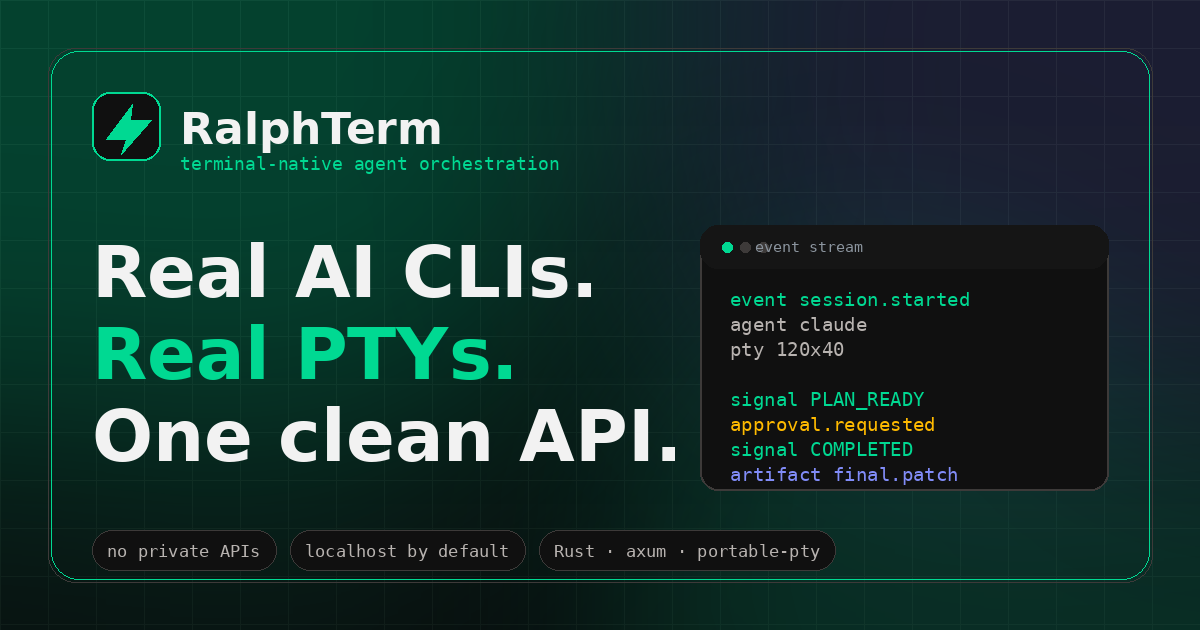
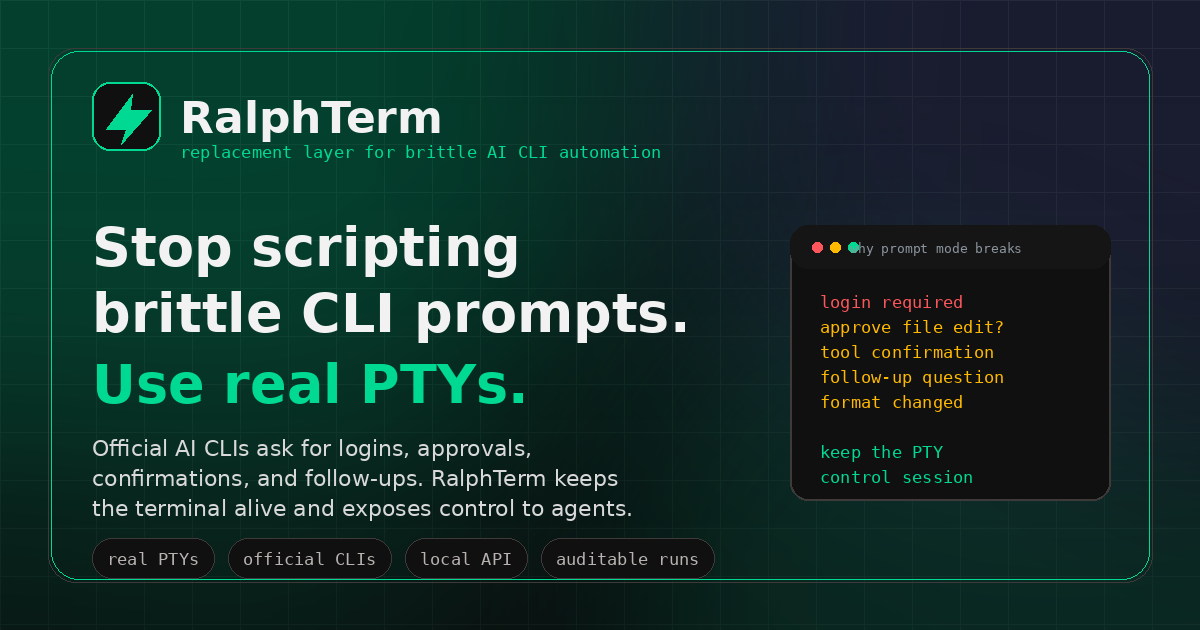
docs: explain prompt-mode replacement problem

Changed region(s): [[0.0617, 0.3619, 0.925, 0.9349], [0.0617, 0.1206, 0.555, 0.2714]]

diff --git a/index.html b/index.html
@@ -3,16 +3,16 @@
 <head>
   <meta charset="UTF-8" />
   <meta name="viewport" content="width=device-width, initial-scale=1.0" />
-  <title>RalphTerm — Terminal-native AI agent orchestration</title>
-  <meta name="description" content="RalphTerm turns Claude Code, Codex, and future AI CLIs into observable API-controlled terminal agents running inside real PTYs." />
+  <title>RalphTerm — Replace brittle prompt-mode agents with real terminal sessions</title>
+  <meta name="description" content="RalphTerm replaces brittle one-shot CLI automation with real terminal sessions you can control, stream, resume, audit, and approve." />
   <meta name="application-name" content="RalphTerm" />
   <meta name="author" content="RayforceDB" />
   <meta name="keywords" content="RalphTerm, AI agents, Claude Code, Codex, PTY, terminal automation, Rust, axum, portable-pty, developer tools" />
   <meta name="robots" content="index,follow,max-image-preview:large" />
   <meta name="theme-color" content="#050507" />
   <meta property="og:site_name" content="RalphTerm" />
-  <meta property="og:title" content="RalphTerm — Real AI CLIs. Real PTYs. One clean API." />
-  <meta property="og:description" content="A local-first control plane for terminal-native coding agents. Drive official AI CLIs through real PTYs with sessions, streams, transcripts, signals, and approvals." />
+  <meta property="og:title" content="RalphTerm — replace brittle prompt-mode agents with real PTY sessions." />
+  <meta property="og:description" content="Most AI CLI automation depends on one-shot prompt flags. RalphTerm runs official CLIs in real PTYs instead, so long autonomous coding runs can survive interactive prompts, approvals, streaming output, and provider changes." />
   <meta property="og:type" content="website" />
   <meta property="og:url" content="https://ralphterm.rayforcedb.com/" />
   <meta property="og:image" content="https://ralphterm.rayforcedb.com/assets/social-preview.png" />
@@ -20,8 +20,8 @@
   <meta property="og:image:width" content="1200" />
   <meta property="og:image:height" content="630" />
   <meta name="twitter:card" content="summary_large_image" />
-  <meta name="twitter:title" content="RalphTerm — Real AI CLIs. Real PTYs. One clean API." />
-  <meta name="twitter:description" content="Terminal-native orchestration for Claude Code, Codex, and future AI coding agents." />
+  <meta name="twitter:title" content="RalphTerm — replace brittle prompt-mode agents with real PTY sessions." />
+  <meta name="twitter:description" content="A safer replacement for one-shot prompt-mode AI CLI automation." />
   <meta name="twitter:image" content="https://ralphterm.rayforcedb.com/assets/social-preview.png" />
   <link rel="canonical" href="https://ralphterm.rayforcedb.com/" />
   <link rel="icon" href="/assets/favicon.svg" type="image/svg+xml" />
@@ -31,7 +31,7 @@
   <link rel="preconnect" href="https://fonts.gstatic.com" crossorigin>
   <link href="https://fonts.googleapis.com/css2?family=JetBrains+Mono:wght@400;500;700&display=swap" rel="stylesheet">
   <link rel="stylesheet" href="/assets/styles.css" />
-  <script type="application/ld+json">{"@context":"https://schema.org","@type":"SoftwareSourceCode","name":"RalphTerm","description":"Terminal-native orchestration for AI coding agents using real PTYs.","url":"https://ralphterm.rayforcedb.com/","codeRepository":"https://github.com/RayforceDB/ralphterm","programmingLanguage":"Rust","license":"https://github.com/RayforceDB/ralphterm/blob/main/LICENSE","creator":{"@type":"Organization","name":"RayforceDB"}}</script>
+  <script type="application/ld+json">{"@context":"https://schema.org","@type":"SoftwareSourceCode","name":"RalphTerm","description":"A safer replacement for brittle one-shot AI CLI automation using real PTYs.","url":"https://ralphterm.rayforcedb.com/","codeRepository":"https://github.com/RayforceDB/ralphterm","programmingLanguage":"Rust","license":"https://github.com/RayforceDB/ralphterm/blob/main/LICENSE","creator":{"@type":"Organization","name":"RayforceDB"}}</script>
 </head>
 <body>
 
@@ -56,9 +56,9 @@
 
   <main>
     <header class="hero container">
-      <div class="eyebrow"><span class="dot"></span> open source · terminal-native · local-first</div>
-      <h1>Real AI CLIs.<br><span class="gradient-text">Real PTYs.</span><br>One clean API.</h1>
-      <p class="lead">RalphTerm is the control plane for coding agents that live in terminals. Run Claude Code, Codex, and future CLIs exactly as shipped, then orchestrate them with sessions, streams, transcripts, signals, and approvals.</p>
+      <div class="eyebrow"><span class="dot"></span> the problem: prompt-mode agents are brittle</div>
+      <h1>Stop betting your agent stack on <code>-p</code>.<br><span class="gradient-text">Run the real terminal.</span></h1>
+      <p class="lead">Many agent systems drive AI CLIs through one-shot prompt flags. That is fragile. Login flows, approvals, streaming output, rate-limit messages, tool confirmations, and future vendor changes all happen in the interactive terminal. RalphTerm treats that terminal as the API boundary.</p>
       <div class="hero-actions">
         <a class="btn primary" href="https://github.com/RayforceDB/ralphterm">Star on GitHub</a>
         <a class="btn" href="/docs/">Read the docs</a>
@@ -66,28 +66,28 @@
       </div>
       <div class="hero-strip">
         <span class="pill">no private APIs</span>
-        <span class="pill">no credential copying</span>
+        <span class="pill">no copied credentials</span>
         <span class="pill">localhost by default</span>
         <span class="pill">Rust · axum · portable-pty</span>
-        <span class="pill">early OSS release: session API live</span>
+        <span class="pill">built to replace -p orchestration</span>
       </div>
       <div class="signal-grid" aria-label="RalphTerm capabilities">
-        <div class="signal-tile"><b>PTY Sessions</b><span>Spawn real terminals for real CLIs.</span></div>
-        <div class="signal-tile"><b>Live Streams</b><span>WebSocket output and lifecycle events.</span></div>
-        <div class="signal-tile"><b>Signals</b><span>Detect completion, questions, failures, reviews.</span></div>
-        <div class="signal-tile"><b>Approvals</b><span>Human-safe automation policy by default.</span></div>
+        <div class="signal-tile"><b>Problem</b><span>Prompt flags break when the CLI gets interactive.</span></div>
+        <div class="signal-tile"><b>Solution</b><span>Run the official CLI in a real PTY.</span></div>
+        <div class="signal-tile"><b>Control</b><span>Stream output, send input, cancel, audit.</span></div>
+        <div class="signal-tile"><b>Safety</b><span>Keep vendor auth and approvals visible.</span></div>
       </div>
       <div class="terminal-card">
         <div class="terminal-top"><span class="light green"></span><span class="light"></span><span class="light"></span><span>ralphterm.local</span><span class="code-label">session api</span></div>
-        <pre><span class="comment"># start the local control plane</span>
+        <pre><span class="comment"># run the replacement layer locally</span>
 <span class="cmd">cargo</span> run -- serve --bind 127.0.0.1:7878
 
-<span class="comment"># create a terminal-backed agent session</span>
+<span class="comment"># start a real interactive CLI session through the API</span>
 curl -X POST http://127.0.0.1:7878/v1/sessions \
   -H <span class="purple">'content-type: application/json'</span> \
   -d <span class="purple">'{"agent":"claude","prompt":"Implement this task and end with COMPLETED"}'</span>
 
-<span class="comment"># stream structured events while the official CLI runs in a real PTY</span>
+<span class="comment"># stream events while the CLI behaves like it does for a human</span>
 websocat ws://127.0.0.1:7878/v1/sessions/&lt;id&gt;/events</pre>
       </div>
       <div class="logo-row" aria-label="Platform notes">
@@ -97,29 +97,29 @@ websocat ws://127.0.0.1:7878/v1/sessions/&lt;id&gt;/events</pre>
 
     <section id="why" class="container">
       <div class="section-head">
-        <div class="section-kicker">Why RalphTerm</div>
-        <h2>The terminal is the stable contract.</h2>
-        <p class="section-copy">AI coding products move fast. Their terminal interface remains the one surface users trust. RalphTerm turns that surface into infrastructure without pretending to be the provider.</p>
+        <div class="section-kicker">The problem</div>
+        <h2>One-shot prompt mode was never enough for autonomous coding.</h2>
+        <p class="section-copy">It is tempting to run an AI CLI with a prompt flag and parse the text that comes back. That works for demos. It breaks when the CLI asks for login, asks to approve a file edit, changes output format, opens an interactive flow, or needs follow-up input. RalphTerm is built for that reality.</p>
       </div>
       <div class="grid">
-        <div class="card highlight protocol-card"><span class="tag">CORE PRINCIPLE</span><h3>No prompt-mode dependency</h3><p>Drive the official CLI through a PTY. The same interface humans use becomes the automation surface.</p></div>
-        <div class="card"><span class="tag">SAFETY</span><h3>Vendor auth stays vendor-owned</h3><p>The CLI owns login, identity, rate limits, account policy, and safety prompts. RalphTerm hosts the terminal and records the run.</p></div>
-        <div class="card"><span class="tag">CONTROL</span><h3>Built for long runs</h3><p>Create, input, resize, cancel, stream, transcript, and detect workflow signals through a small local API.</p></div>
+        <div class="card highlight protocol-card"><span class="tag">CORE PRINCIPLE</span><h3>No dependency on prompt mode</h3><p>The official CLI runs inside a PTY. Your orchestrator talks to the session, not to a brittle one-shot wrapper.</p></div>
+        <div class="card"><span class="tag">SAFETY</span><h3>Interactive behavior is expected</h3><p>Login, rate-limit notices, approval prompts, and tool confirmations are part of the flow. RalphTerm streams and records them instead of pretending they do not exist.</p></div>
+        <div class="card"><span class="tag">CONTROL</span><h3>Built for long agent runs</h3><p>Create a session, send input, resize it, cancel it, read status, stream events, and keep the transcript.</p></div>
       </div>
     </section>
 
     <section id="product" class="container">
       <div class="section-head">
-        <div class="section-kicker">Product surface</div>
-        <h2>From terminal session to engineering run.</h2>
-        <p class="section-copy">The PTY core is only the beginning. Milestone 1 turns RalphTerm into an autonomous engineering loop with planning, implementation, review, approvals, and final artifacts.</p>
+        <div class="section-kicker">What it gives you</div>
+        <h2>A drop-in control plane for CLI-based agents.</h2>
+        <p class="section-copy">RalphTerm starts by replacing fragile prompt-mode execution. Then it adds the missing pieces for real autonomous work: planning, workspaces, reviews, approvals, transcripts, and final patches.</p>
       </div>
       <div class="command-grid">
         <div class="grid two">
-          <div class="card"><h3>Session API</h3><p>One endpoint starts an agent. Others drive input, resize the terminal, cancel work, fetch status, stream events, and pull transcripts.</p></div>
-          <div class="card"><h3>Workflow signals</h3><p>RalphTerm detects <code>COMPLETED</code>, <code>FAILED</code>, <code>QUESTION</code>, <code>PLAN_READY</code>, and <code>REVIEW_DONE</code>, then exposes them as structured events.</p></div>
-          <div class="card"><h3>Approval queue</h3><p>Human approval is the default. Policy-based auto-approval is explicit, auditable, and never a hidden bypass.</p></div>
-          <div class="card"><h3>Dashboard-ready</h3><p>Every run has phase status, live terminal output, final artifacts, transcripts, and event history.</p></div>
+          <div class="card"><h3>Session API</h3><p>Start Claude Code, Codex, or another command as an API-controlled PTY session. Keep using the official CLI.</p></div>
+          <div class="card"><h3>Completion signals</h3><p>Detect <code>COMPLETED</code>, <code>FAILED</code>, <code>QUESTION</code>, <code>PLAN_READY</code>, and <code>REVIEW_DONE</code> from real terminal output.</p></div>
+          <div class="card"><h3>Approval handling</h3><p>Approvals stay visible. You can pause, notify a human, or apply explicit policy. No hidden bypass.</p></div>
+          <div class="card"><h3>Audit trail</h3><p>Every run can produce live output, final artifacts, transcripts, and event history.</p></div>
         </div>
         <div class="mini-terminal">
           <div class="terminal-top"><span class="light green"></span><span class="light"></span><span class="light"></span><span>event stream</span></div>
@@ -147,10 +147,10 @@ websocat ws://127.0.0.1:7878/v1/sessions/&lt;id&gt;/events</pre>
       <div class="split">
         <div>
           <div class="section-kicker">Milestone 1</div>
-          <h2>A complete autonomous engineering loop.</h2>
-          <p class="section-copy">Task intake, isolated workspaces, planning, implementation, self-review, external review, approvals, notifications, final patch, and replayable audit trail.</p>
+          <h2>Milestone 1: replace prompt-mode agent runners completely.</h2>
+          <p class="section-copy">The first milestone is practical: take a coding task, plan it, run agents in isolated workspaces, handle approvals, review the result, and produce a patch with a transcript. All through PTY-backed sessions.</p>
           <div class="hero-actions" style="justify-content:flex-start"><a class="btn primary" href="/docs/milestone-one.html">Read M1 plan</a><a class="btn" href="https://github.com/RayforceDB/ralphterm">Follow development</a></div>
-          <p class="launch-note">The skeleton is live now. Next comes real interactive Claude/Codex drivers, persistence, and the dashboard.</p>
+          <p class="launch-note">The session API is live now. Next comes the real replacement loop: interactive drivers, persistence, approval queue, dashboard, and patch artifacts.</p>
         </div>
         <div class="workflow">
           <div class="step"><div class="num">1</div><div><strong>Intake</strong><span>Submit a task through API, CLI, or dashboard.</span></div></div>
@@ -165,10 +165,10 @@ websocat ws://127.0.0.1:7878/v1/sessions/&lt;id&gt;/events</pre>
     <section class="container">
       <div class="callout">
         <div class="section-kicker">Open source launch</div>
-        <h2>Help build the PTY-native agent layer.</h2>
-        <p class="section-copy">RalphTerm is early, focused, and deliberately boring where it matters: official CLIs, real terminals, local controls, auditable runs.</p>
+        <h2>Help build the replacement for prompt-mode agent runners.</h2>
+        <p class="section-copy">RalphTerm is early, but the direction is simple: stop scraping one-shot prompt output and start treating the terminal as the durable automation interface.</p>
         <div class="actions"><a class="btn primary" href="https://github.com/RayforceDB/ralphterm">Star the repo</a><a class="btn" href="/docs/architecture.html">Architecture</a><a class="btn" href="/docs/api.html">API docs</a></div>
-        <div class="status-line">public repo · MIT license · CI green</div>
+        <div class="status-line">public repo · MIT license · session API live · CI green</div>
       </div>
     </section>
 

diff --git a/assets/styles.css b/assets/styles.css
@@ -307,3 +307,20 @@ h3 { letter-spacing: -.035em; }
 @media (max-width: 940px) {
   .signal-grid, .command-grid, .metric-row { grid-template-columns: 1fr; }
 }
+
+h1 code {
+  font-family: var(--mono);
+  font-size: .68em;
+  color: var(--green);
+  background: rgba(0,217,146,.055);
+  border: 1px solid rgba(0,217,146,.28);
+  border-radius: 10px;
+  padding: 0 .10em;
+  vertical-align: .06em;
+}
+.problem-line {
+  max-width: 760px;
+  margin: 18px auto 0;
+  color: var(--muted);
+  font-size: 16px;
+}